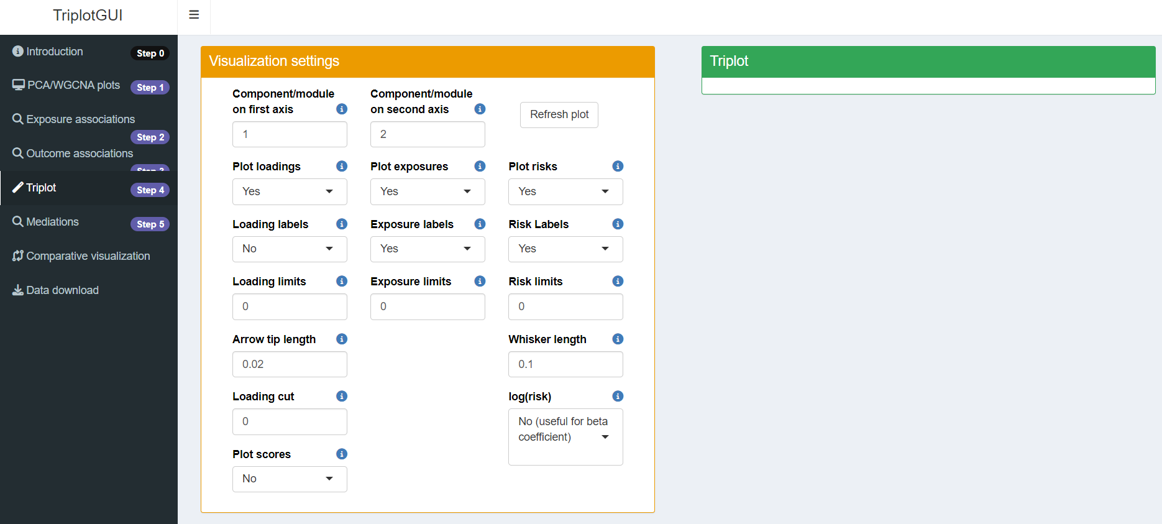
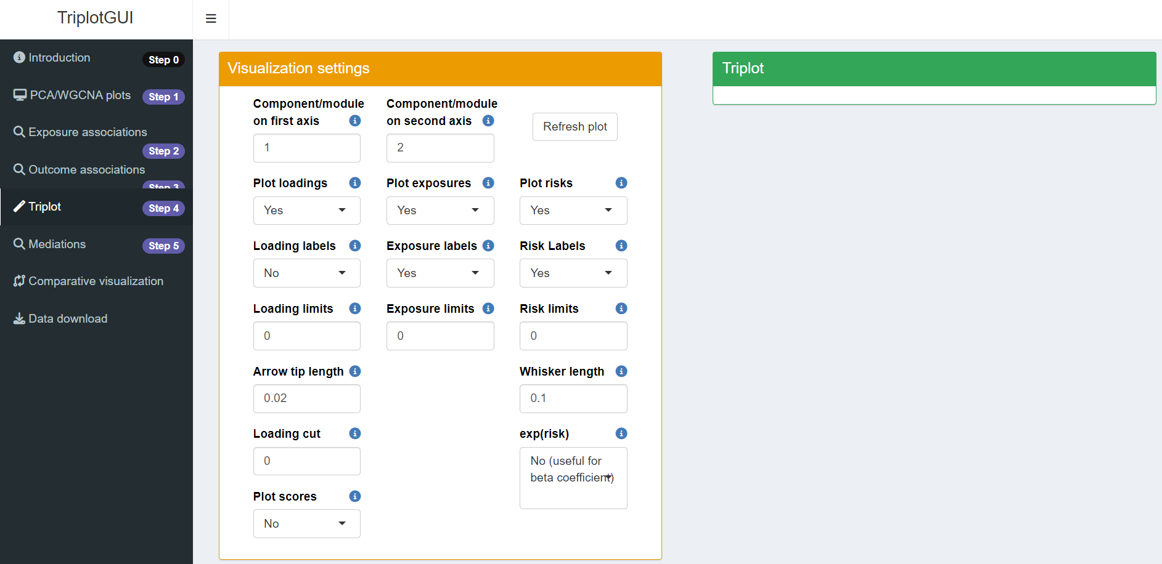
to update the we

Changed region(s): [[0.0, 0.0, 1.0, 1.0], [0.4337, 0.7328, 0.5267, 0.855], [0.0, 0.5496, 0.0929, 0.5802]]

diff --git a/public/workflow.html b/public/workflow.html
@@ -659,7 +659,7 @@ Note
 <span class="header-section-number">3.3.1</span> Basics</h3>
 <ol type="1">
 <li>
-<strong><em>log(risk)</em></strong>: Users choose between beta coefficients or odds ratios for risk estimations. Options are <em>Yes(useful for odds ratio)</em> or <em>No(useful for beta coefficient)</em>. Default is <em>No(useful for beta coefficient)</em>.</li>
+<strong><em>exp(risk)</em></strong>: Users choose between beta coefficients or odds ratios for risk estimations. Options are <em>Yes(useful for odds ratio)</em> or <em>No(useful for beta coefficient)</em>. Default is <em>No(useful for beta coefficient)</em>.</li>
 </ol></section><section id="more-6" class="level3" data-number="3.3.2"><h3 data-number="3.3.2" class="anchored" data-anchor-id="more-6">
 <span class="header-section-number">3.3.2</span> More</h3>
 <ol type="1">
@@ -712,7 +712,7 @@ Note
 <li><p><strong><em>Loading cut</em></strong>: Loadings below the value will not show up on the plot.</p></li>
 <li><p><strong><em>Plot Scores</em></strong>: This option determines whether the scores will be plotted on the visualization. The default is <em>No</em>.</p></li>
 <li><p><strong><em>Whisker length</em></strong>: Sets the whisker length of confidence intervals. Default is <em>0.1</em>.</p></li>
-<li><p><strong><em>log(risk)</em></strong>: Users choose between beta coefficients or odds ratios for risk estimations. Options are <em>Yes(useful for odds ratio)</em> or <em>No(useful for beta coefficient)</em>. Default is <em>No(useful for beta coefficient)</em>.</p></li>
+<li><p><strong><em>exp(risk)</em></strong>: Users choose between beta coefficients or odds ratios for risk estimations. Options are <em>Yes(useful for odds ratio)</em> or <em>No(useful for beta coefficient)</em>. Default is <em>No(useful for beta coefficient)</em>.</p></li>
 </ol></section><section id="triplot" class="level2" data-number="4.2"><h2 data-number="4.2" class="anchored" data-anchor-id="triplot">
 <span class="header-section-number">4.2</span> Triplot</h2>
 <p>The <span style="color:green">green box</span> represents visualization outputs. With Omics data from Step 1 and exposure or outcome data uploaded, clicking the <strong><em>Refresh plot</em></strong> button will co-visualize the exposure associations and outcome associations with the selected components/modules. The figure can be downloaded by clicking <strong><em>Download figure</em></strong>.</p>
@@ -1427,7 +1427,7 @@ window.document.addEventListener("DOMContentLoaded", function (event) {
 <span id="cb1-335"><a href="#cb1-335" aria-hidden="true" tabindex="-1"></a></span>
 <span id="cb1-336"><a href="#cb1-336" aria-hidden="true" tabindex="-1"></a><span class="fu">### Basics</span></span>
 <span id="cb1-337"><a href="#cb1-337" aria-hidden="true" tabindex="-1"></a></span>
-<span id="cb1-338"><a href="#cb1-338" aria-hidden="true" tabindex="-1"></a><span class="ss">1.  </span>***log(risk)***: Users choose between beta coefficients or odds ratios for risk estimations. Options are *Yes(useful for odds ratio)* or *No(useful for beta coefficient)*. Default is *No(useful for beta coefficient)*.</span>
+<span id="cb1-338"><a href="#cb1-338" aria-hidden="true" tabindex="-1"></a><span class="ss">1.  </span>***exp(risk)***: Users choose between beta coefficients or odds ratios for risk estimations. Options are *Yes(useful for odds ratio)* or *No(useful for beta coefficient)*. Default is *No(useful for beta coefficient)*.</span>
 <span id="cb1-339"><a href="#cb1-339" aria-hidden="true" tabindex="-1"></a></span>
 <span id="cb1-340"><a href="#cb1-340" aria-hidden="true" tabindex="-1"></a><span class="fu">### More</span></span>
 <span id="cb1-341"><a href="#cb1-341" aria-hidden="true" tabindex="-1"></a></span>
@@ -1489,7 +1489,7 @@ window.document.addEventListener("DOMContentLoaded", function (event) {
 <span id="cb1-397"><a href="#cb1-397" aria-hidden="true" tabindex="-1"></a></span>
 <span id="cb1-398"><a href="#cb1-398" aria-hidden="true" tabindex="-1"></a><span class="ss">8.  </span>***Whisker length***: Sets the whisker length of confidence intervals. Default is *0.1*.</span>
 <span id="cb1-399"><a href="#cb1-399" aria-hidden="true" tabindex="-1"></a></span>
-<span id="cb1-400"><a href="#cb1-400" aria-hidden="true" tabindex="-1"></a><span class="ss">9.  </span>***log(risk)***: Users choose between beta coefficients or odds ratios for risk estimations. Options are *Yes(useful for odds ratio)* or *No(useful for beta coefficient)*. Default is *No(useful for beta coefficient)*.</span>
+<span id="cb1-400"><a href="#cb1-400" aria-hidden="true" tabindex="-1"></a><span class="ss">9.  </span>***exp(risk)***: Users choose between beta coefficients or odds ratios for risk estimations. Options are *Yes(useful for odds ratio)* or *No(useful for beta coefficient)*. Default is *No(useful for beta coefficient)*.</span>
 <span id="cb1-401"><a href="#cb1-401" aria-hidden="true" tabindex="-1"></a></span>
 <span id="cb1-402"><a href="#cb1-402" aria-hidden="true" tabindex="-1"></a><span class="fu">## Triplot</span></span>
 <span id="cb1-403"><a href="#cb1-403" aria-hidden="true" tabindex="-1"></a></span>
@@ -1674,7 +1674,7 @@ window.document.addEventListener("DOMContentLoaded", function (event) {
 <p><span class="faux-block cyan"> <a href="https://yingxiaoyan.gitlab.io/triplotgui_tutorial/" target="_blank">Main page of this tutorial</a> <br><a href="https://gitlab.com/YingxiaoYan/triplotgui_tutorial" target="_blank">View source of this site on GitLab</a> </span></p>
 </div>
   </div>
-</footer><script>var lightboxQuarto = GLightbox({"selector":".lightbox","descPosition":"bottom","loop":false,"closeEffect":"zoom","openEffect":"zoom"});
+</footer><script>var lightboxQuarto = GLightbox({"selector":".lightbox","loop":false,"descPosition":"bottom","openEffect":"zoom","closeEffect":"zoom"});
 (function() {
   let previousOnload = window.onload;
   window.onload = () => {

diff --git a/public/complex_code.html b/public/complex_code.html
@@ -3530,7 +3530,7 @@ window.document.addEventListener("DOMContentLoaded", function (event) {
 <p><span class="faux-block cyan"> <a href="https://yingxiaoyan.gitlab.io/triplotgui_tutorial/" target="_blank">Main page of this tutorial</a> <br><a href="https://gitlab.com/YingxiaoYan/triplotgui_tutorial" target="_blank">View source of this site on GitLab</a> </span></p>
 </div>
   </div>
-</footer><script>var lightboxQuarto = GLightbox({"selector":".lightbox","loop":false,"descPosition":"bottom","closeEffect":"zoom","openEffect":"zoom"});
+</footer><script>var lightboxQuarto = GLightbox({"descPosition":"bottom","openEffect":"zoom","closeEffect":"zoom","loop":false,"selector":".lightbox"});
 (function() {
   let previousOnload = window.onload;
   window.onload = () => {

diff --git a/public/simple_code.html b/public/simple_code.html
@@ -2371,7 +2371,7 @@ window.document.addEventListener("DOMContentLoaded", function (event) {
 <p><span class="faux-block cyan"> <a href="https://yingxiaoyan.gitlab.io/triplotgui_tutorial/" target="_blank">Main page of this tutorial</a> <br><a href="https://gitlab.com/YingxiaoYan/triplotgui_tutorial" target="_blank">View source of this site on GitLab</a> </span></p>
 </div>
   </div>
-</footer><script>var lightboxQuarto = GLightbox({"closeEffect":"zoom","openEffect":"zoom","selector":".lightbox","descPosition":"bottom","loop":false});
+</footer><script>var lightboxQuarto = GLightbox({"openEffect":"zoom","loop":false,"descPosition":"bottom","closeEffect":"zoom","selector":".lightbox"});
 (function() {
   let previousOnload = window.onload;
   window.onload = () => {

diff --git a/public/about.html b/public/about.html
@@ -352,7 +352,7 @@ window.document.addEventListener("DOMContentLoaded", function (event) {
 <p><span class="faux-block cyan"> <a href="https://yingxiaoyan.gitlab.io/triplotgui_tutorial/" target="_blank">Main page of this tutorial</a> <br><a href="https://gitlab.com/YingxiaoYan/triplotgui_tutorial" target="_blank">View source of this site on GitLab</a> </span></p>
 </div>
   </div>
-</footer><script>var lightboxQuarto = GLightbox({"closeEffect":"zoom","loop":false,"selector":".lightbox","openEffect":"zoom","descPosition":"bottom"});
+</footer><script>var lightboxQuarto = GLightbox({"openEffect":"zoom","descPosition":"bottom","selector":".lightbox","loop":false,"closeEffect":"zoom"});
 (function() {
   let previousOnload = window.onload;
   window.onload = () => {

diff --git a/public/complex.html b/public/complex.html
@@ -686,7 +686,7 @@ window.document.addEventListener("DOMContentLoaded", function (event) {
 <p><span class="faux-block cyan"> <a href="https://yingxiaoyan.gitlab.io/triplotgui_tutorial/" target="_blank">Main page of this tutorial</a> <br><a href="https://gitlab.com/YingxiaoYan/triplotgui_tutorial" target="_blank">View source of this site on GitLab</a> </span></p>
 </div>
   </div>
-</footer><script>var lightboxQuarto = GLightbox({"loop":false,"openEffect":"zoom","descPosition":"bottom","selector":".lightbox","closeEffect":"zoom"});
+</footer><script>var lightboxQuarto = GLightbox({"selector":".lightbox","loop":false,"descPosition":"bottom","closeEffect":"zoom","openEffect":"zoom"});
 (function() {
   let previousOnload = window.onload;
   window.onload = () => {

diff --git a/public/papers.html b/public/papers.html
@@ -678,7 +678,7 @@ window.document.addEventListener("DOMContentLoaded", function (event) {
 <p><span class="faux-block cyan"> <a href="https://yingxiaoyan.gitlab.io/triplotgui_tutorial/" target="_blank">Main page of this tutorial</a> <br><a href="https://gitlab.com/YingxiaoYan/triplotgui_tutorial" target="_blank">View source of this site on GitLab</a> </span></p>
 </div>
   </div>
-</footer><script>var lightboxQuarto = GLightbox({"selector":".lightbox","closeEffect":"zoom","openEffect":"zoom","descPosition":"bottom","loop":false});
+</footer><script>var lightboxQuarto = GLightbox({"closeEffect":"zoom","selector":".lightbox","descPosition":"bottom","loop":false,"openEffect":"zoom"});
 (function() {
   let previousOnload = window.onload;
   window.onload = () => {

diff --git a/public/simple.html b/public/simple.html
@@ -459,7 +459,7 @@ window.document.addEventListener("DOMContentLoaded", function (event) {
 <p><span class="faux-block cyan"> <a href="https://yingxiaoyan.gitlab.io/triplotgui_tutorial/" target="_blank">Main page of this tutorial</a> <br><a href="https://gitlab.com/YingxiaoYan/triplotgui_tutorial" target="_blank">View source of this site on GitLab</a> </span></p>
 </div>
   </div>
-</footer><script>var lightboxQuarto = GLightbox({"selector":".lightbox","closeEffect":"zoom","loop":false,"openEffect":"zoom","descPosition":"bottom"});
+</footer><script>var lightboxQuarto = GLightbox({"selector":".lightbox","descPosition":"bottom","openEffect":"zoom","closeEffect":"zoom","loop":false});
 (function() {
   let previousOnload = window.onload;
   window.onload = () => {

diff --git a/public/use_case.html b/public/use_case.html
@@ -589,7 +589,7 @@ window.document.addEventListener("DOMContentLoaded", function (event) {
 <p><span class="faux-block cyan"> <a href="https://yingxiaoyan.gitlab.io/triplotgui_tutorial/" target="_blank">Main page of this tutorial</a> <br><a href="https://gitlab.com/YingxiaoYan/triplotgui_tutorial" target="_blank">View source of this site on GitLab</a> </span></p>
 </div>
   </div>
-</footer><script>var lightboxQuarto = GLightbox({"selector":".lightbox","closeEffect":"zoom","openEffect":"zoom","descPosition":"bottom","loop":false});
+</footer><script>var lightboxQuarto = GLightbox({"selector":".lightbox","closeEffect":"zoom","loop":false,"descPosition":"bottom","openEffect":"zoom"});
 (function() {
   let previousOnload = window.onload;
   window.onload = () => {

diff --git a/public/introduction.html b/public/introduction.html
@@ -367,7 +367,7 @@ window.document.addEventListener("DOMContentLoaded", function (event) {
 </div>
   </div>
 </footer>
-<script>var lightboxQuarto = GLightbox({"loop":false,"closeEffect":"zoom","openEffect":"zoom","descPosition":"bottom","selector":".lightbox"});
+<script>var lightboxQuarto = GLightbox({"closeEffect":"zoom","selector":".lightbox","loop":false,"descPosition":"bottom","openEffect":"zoom"});
 (function() {
   let previousOnload = window.onload;
   window.onload = () => {
